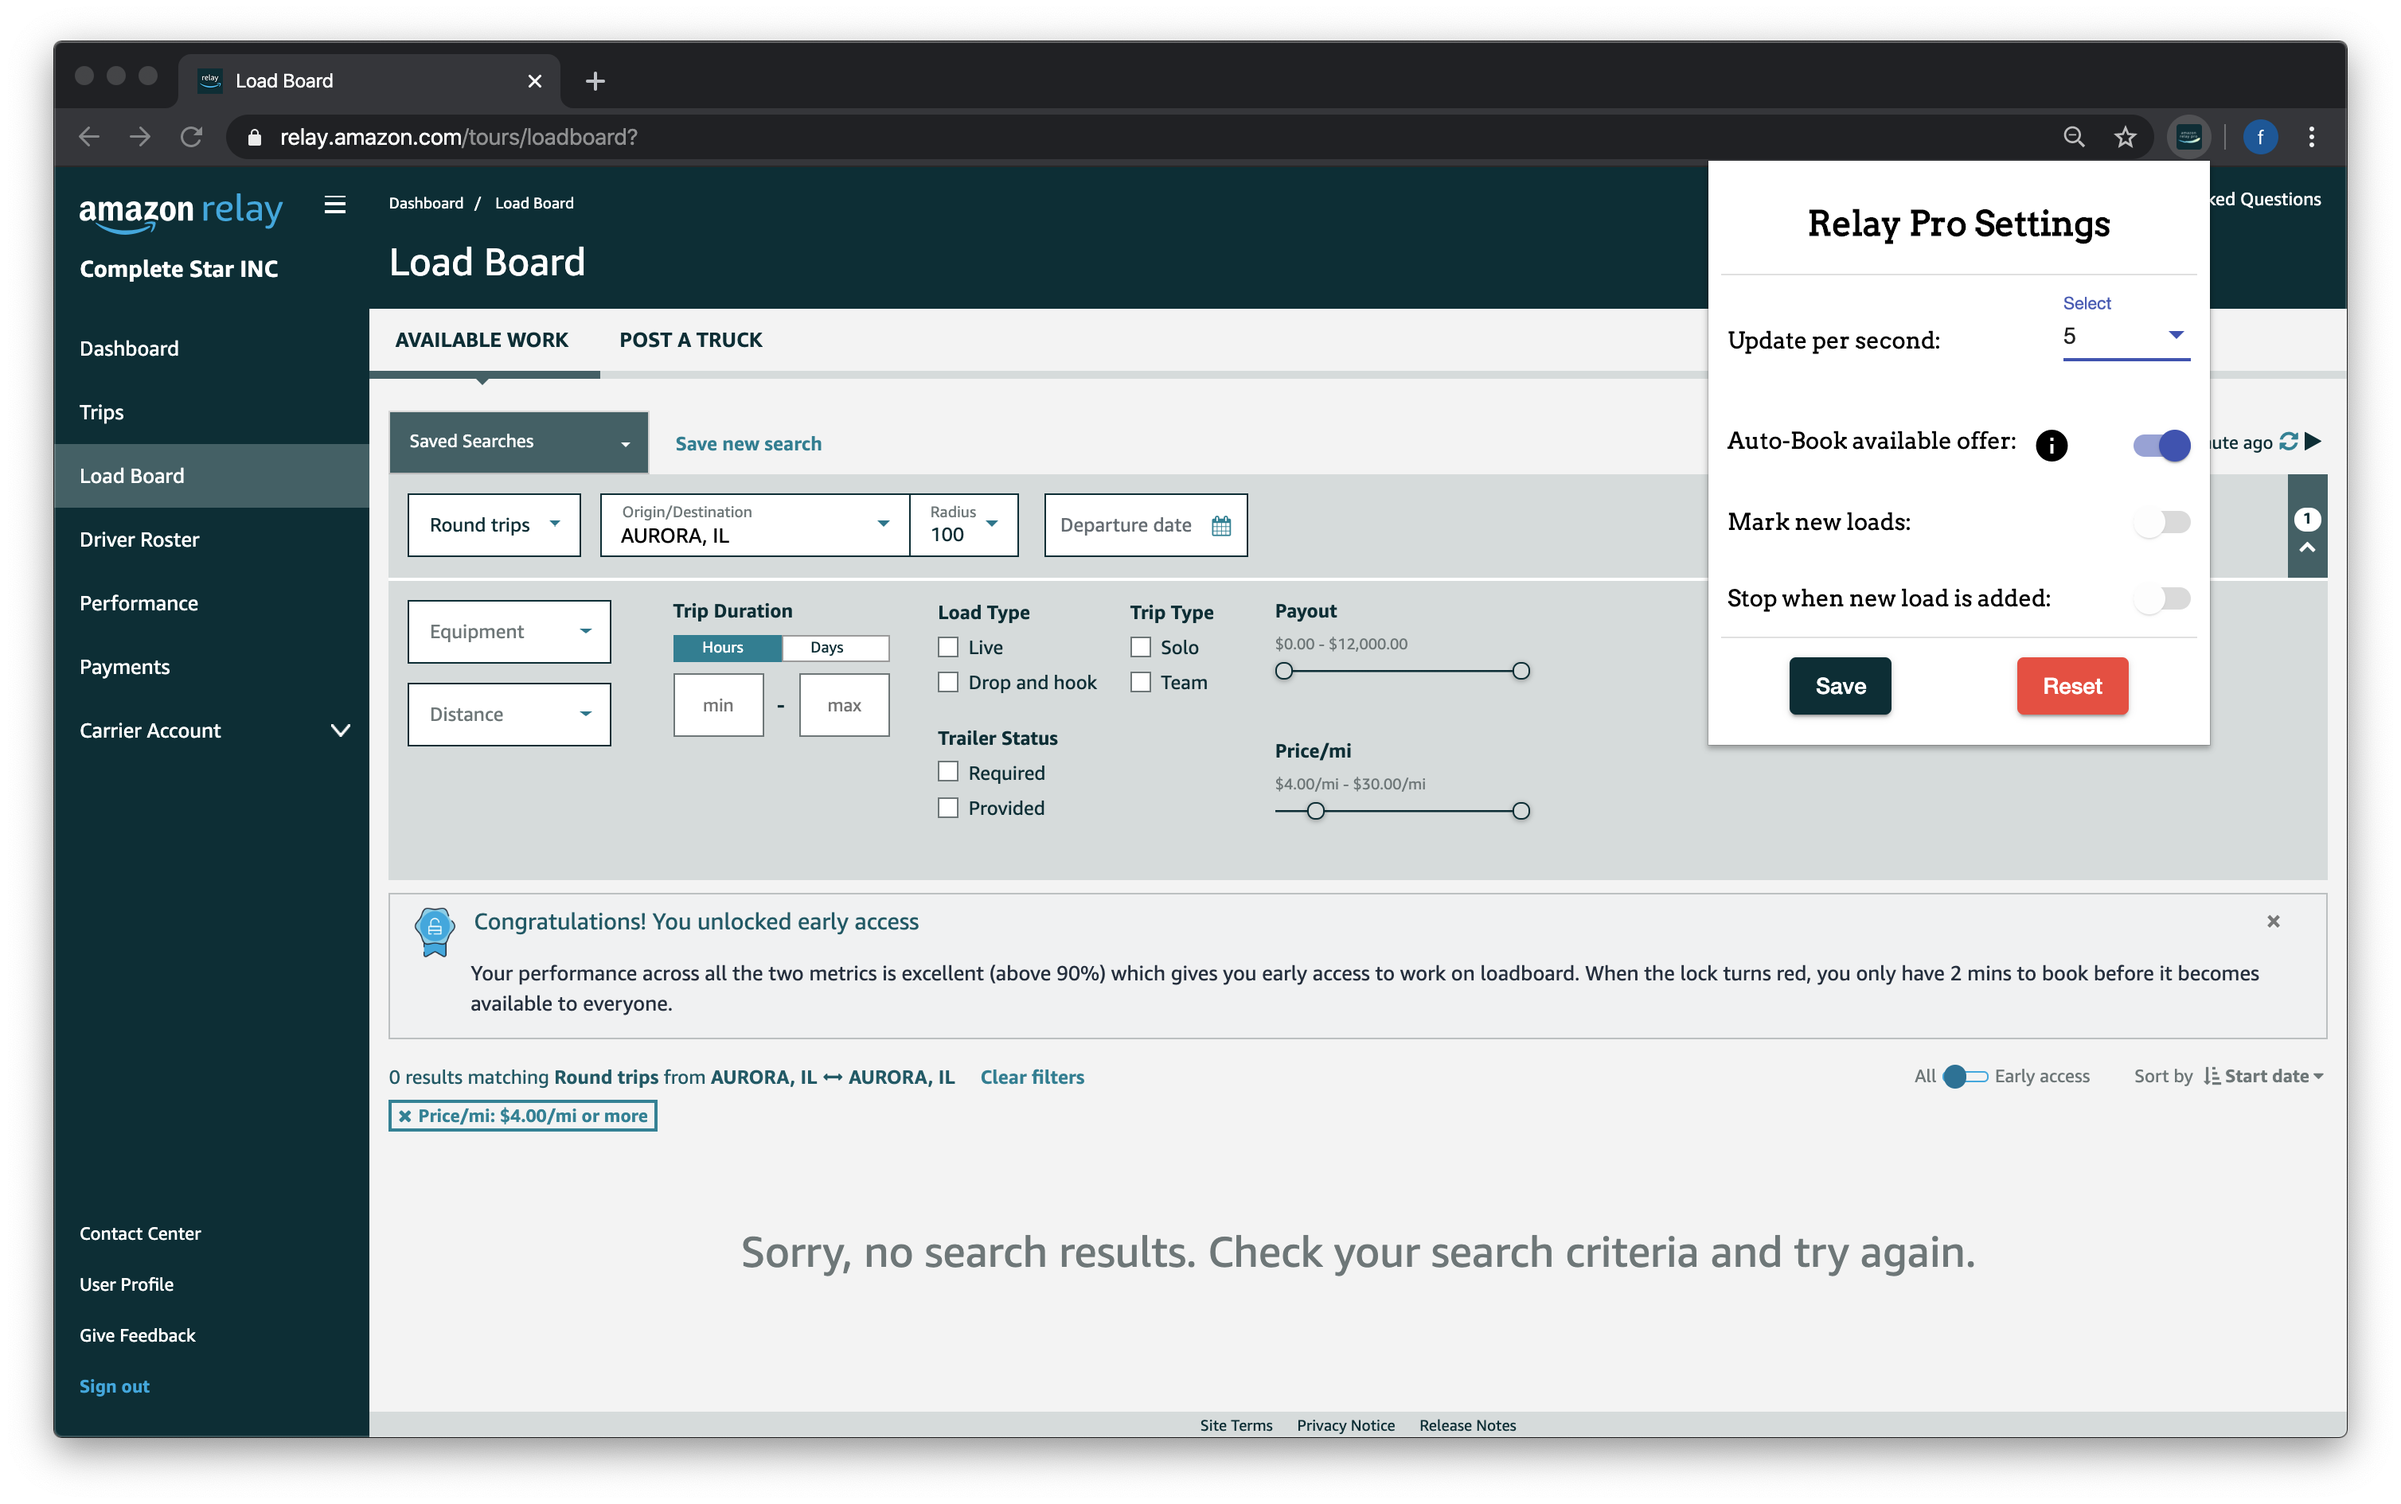
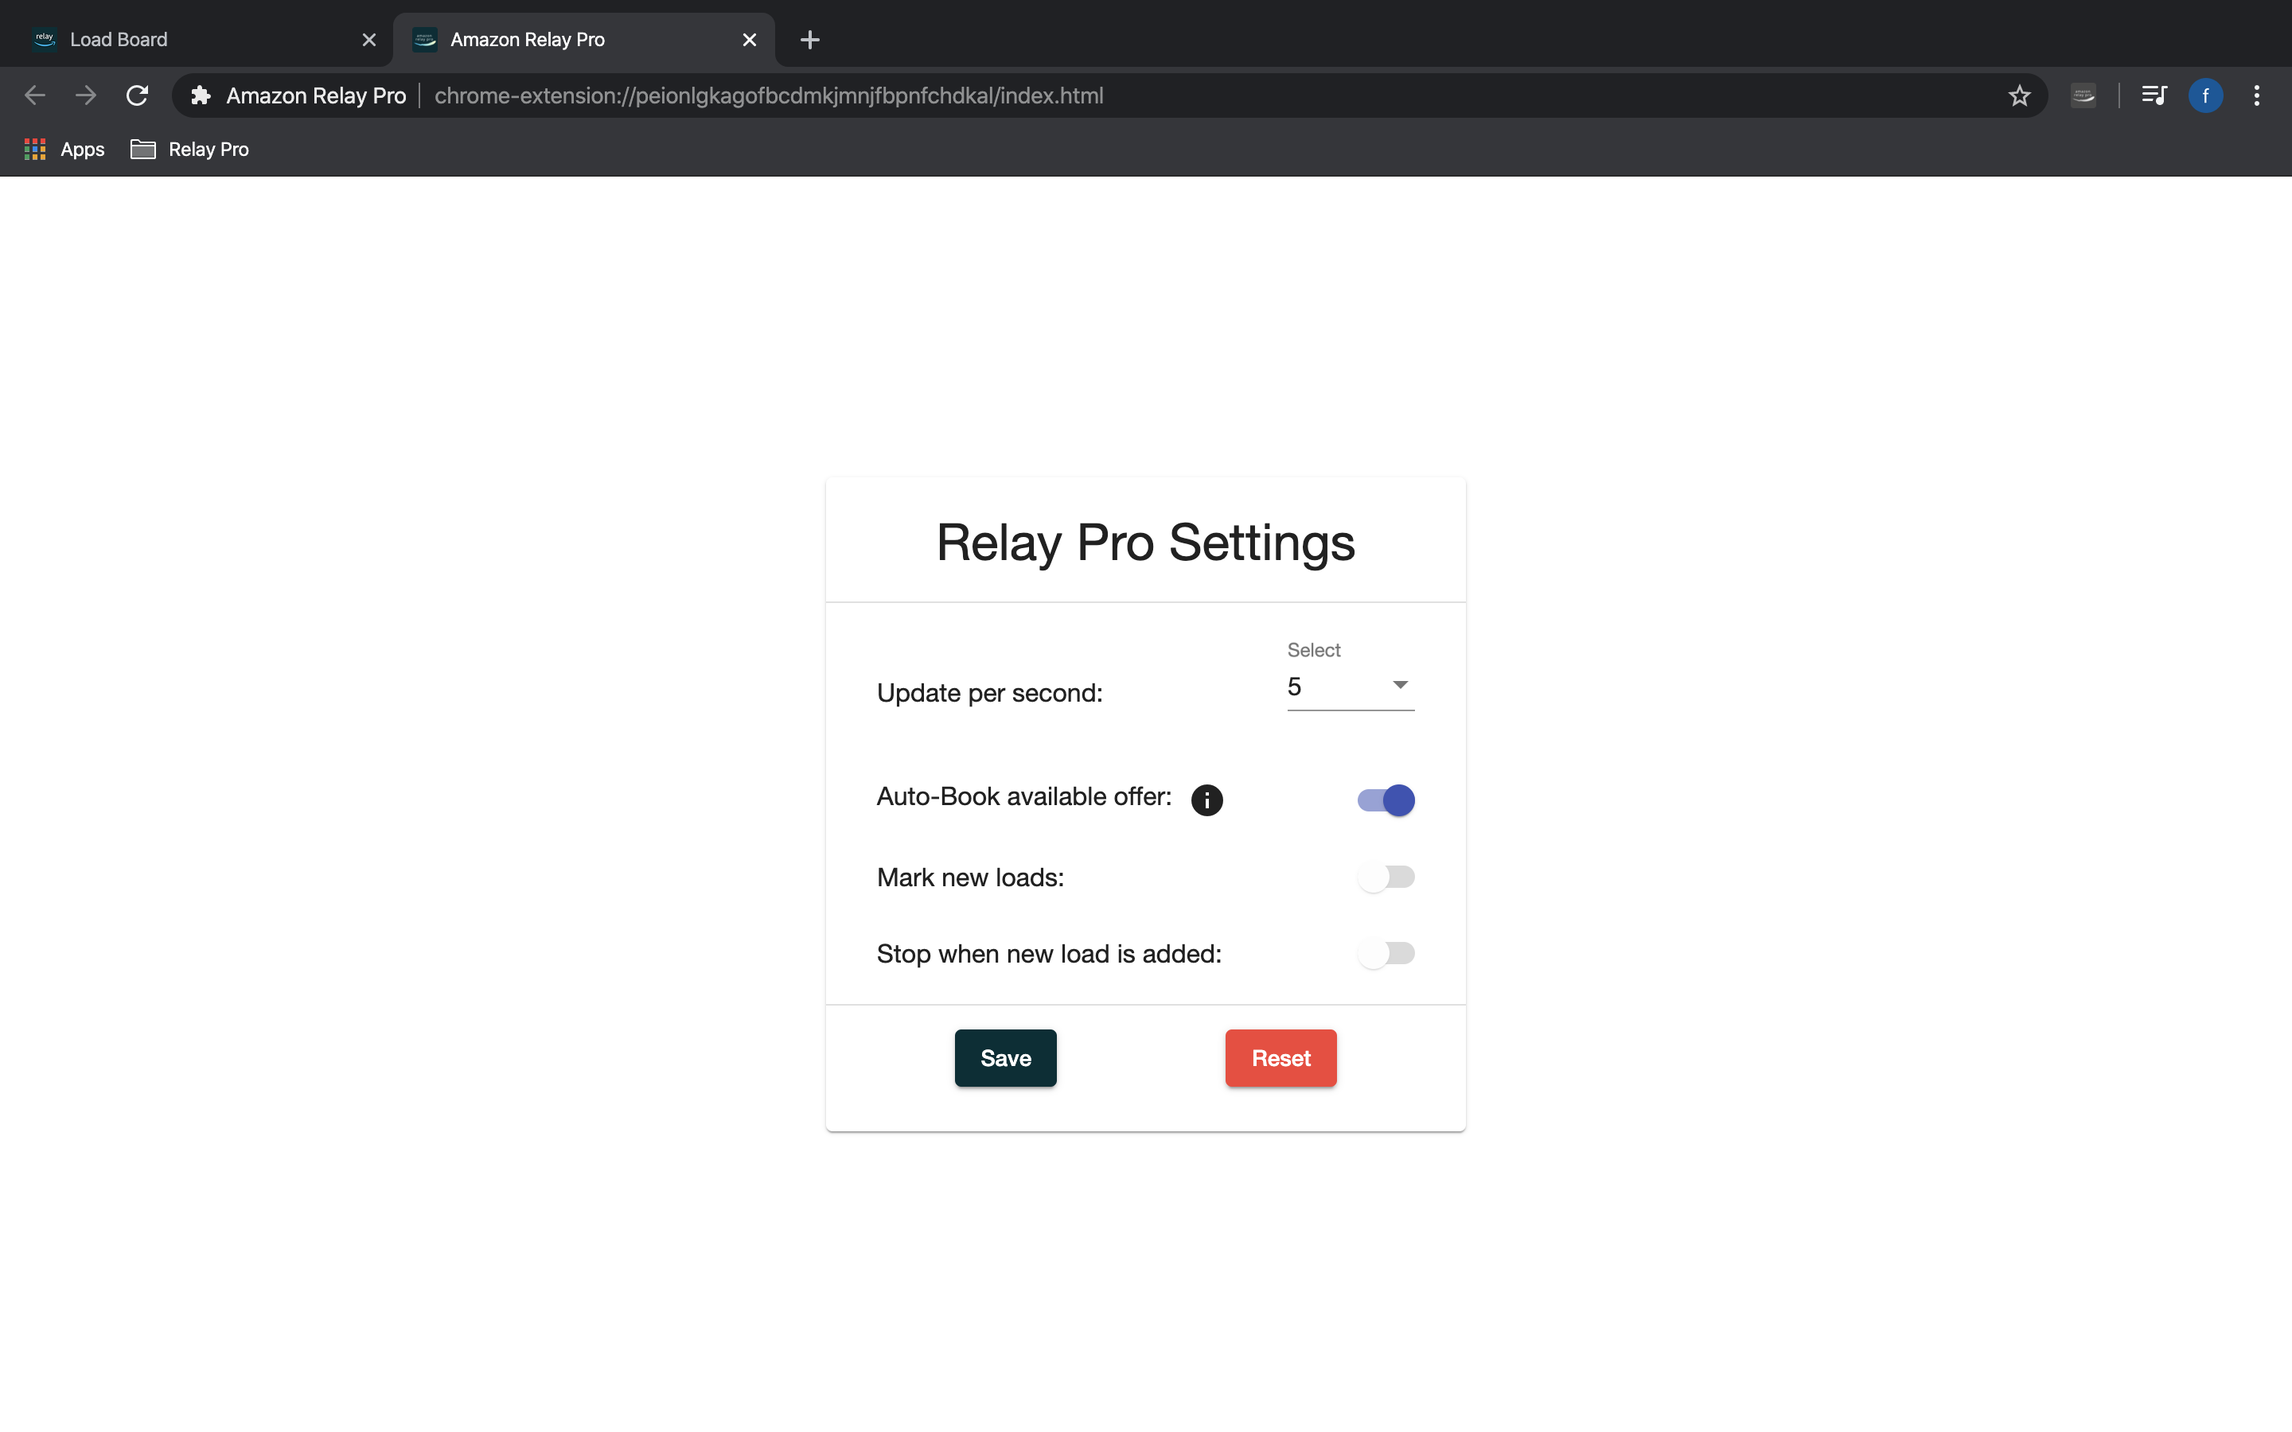
documantation for version two

diff --git a/docs/index.html b/docs/index.html
@@ -11,11 +11,12 @@
   <link rel="stylesheet" href="//unpkg.com/docsify/lib/themes/vue.css">
 </head>
 <body>
-  <div id="app"></div>
+  <div id="app">
+    <!-- <img style="float: left; margin-right: 6px" width="60px" height="60px" src="./img/logo.png"> -->
+  </div>
   <script>
     window.$docsify = {
-      name: '',
-      repo: ''
+      loadNavbar: true
     }
   </script>
   <script src="//unpkg.com/docsify/lib/docsify.min.js"></script>

diff --git a/docs/README.md b/docs/README.md
@@ -1,9 +1,10 @@
-<img style="float: right; margin-right: 6px" width="60px" height="60px" src="./img/logo.png">
+<!-- <img style="float: left; margin-right: 6px" width="60px" height="60px" src="./img/logo.png"> -->
 
 # About the extension
-> Amazon Relay Pro Browser Extension 
+> Amazon Relay Pro 2.0 Browser Extension 
 
-Amazon Relay Pro is productivity hack for people who wants to automate mundane daily tasks of refreshing the browser and waiting for the loads to appear. Using easly configurable features you can tell the extension to do the job for you. Get an edge over the competition and automate your daily work.
+Amazon Relay Pro browser extension is productivity hack for people who wants to automate mundane daily tasks of refreshing the browser and waiting for the loads to appear. Using easily configurable features you can tell the extension to do the job for you. Get an edge over the competition and automate your daily work.
+
 It offers following features:
 
 * **Auto Book loads** 💪 (Game changer)
@@ -11,8 +12,9 @@ It offers following features:
 * Auto Stop when new load appears on the board ⛔
 * Highlight the new load so it can be easily identified 📌
 * Get pleasant sound notifications 🔔
+* User friendly interface 📱
 
-[Get the Extension](https://chrome.google.com/webstore/detail/amazon-relay-pro/peionlgkagofbcdmkjmnjfbpnfchdkal?hl=en&gl=US&authuser=0)
+[Get the Extension from Gumroad](https://gum.co/YzeHNR)
 
 
 # Requirements
@@ -21,75 +23,16 @@ It offers following features:
 1. Works only in Chrome (Firefox is coming soon... 👨💻)
 2. Designed for Amazon Relay 
 3. User should have a Amazon Relay account
-4. User should have a google account
-
-# How to install
-> Instructions on how to install
-
-1. Go to the [Chrome Webstore product page](https://chrome.google.com/webstore/detail/amazon-relay-pro/peionlgkagofbcdmkjmnjfbpnfchdkal?hl=en&gl=US&authuser=0)
-2. Click Buy button 
-3. Complete the payment process ✍🏼
-4. Get the extension installed on your browser
-
-# How to use
-1. Go to the [Amazon Relay Loadboard](https://relay.amazon.com/tours/loadboard?)
-2. Apply desired filters:
-![alt text](./img/filter.png "Filtered Page")
-3. Open configuration pop up by clicking the extension logo:
-![alt text](./img/open-popup.png "Open pop up")
-4. Apply the speed you want to refresh:
-![alt text](./img/open-popup.png "Open pop up")
-5. Toggle the "Auto-Book available offer" option, (Make sure board is clean when this toggle is on) save the configuration and click the play button or press <kbd>Space</kbd> key to start:
-![alt text](./img/auto-book.png "Open pop up")
-6. It will start refreshing and notifies you when it books the load that matches the filter! 🎉 🎉 🎉
-
-> Alternatively, you can configure the settings to stop when new load appears. To do that, repeat the steps 2..4 then
- 
-5. Toggle the "Stop when new load is added" option and possibly toggle "Mark new loads":
-![alt text](./img/stop.png "Open pop up")
-6. Click play button:
-![alt text](./img/play-highlight.png "Open pop up")
-7. It will start refreshing and notify you when new load is added! 🎉 🎉 🎉
-
-9. To stop the refresher, just click the pause button highlighted below. Also, <kbd>Space</kbd> Key can be used to stop the refresher:
-![alt text](./img/pause.png "Open pop up")
-
-# Keyboard shortcuts
-> Key bindings
-
-Use <kbd>Space</kbd> key to start/stop the refresher.
-
-# See it in action
-> See the extension in action
-<iframe width="560" height="400" src="https://www.youtube.com/embed/7GH82wDVe5U" frameborder="0" allow="accelerometer; autoplay; encrypted-media; gyroscope; picture-in-picture" allowfullscreen></iframe>
 
 
 # Reported issues
 > Known bugs
-There are no bugs reported at this moment. Please report possible bugs and feedback to the below contact info. 
 
+There are no bugs reported at this moment. Please report possible bugs and improvements to the below contact info.
 
-# Privacy Policy
-> Privacy Policy: 2/27/2020
+# Users of Amazon Relay Pro v 1.0
 
-This policy lists the types of information that we get from our users and shows what exactly we use that information for. We want to make sure you are aware of it so that you always see the whole picture of your interaction with us. If you have any questions about this Privacy Policy, don’t hesitate to contact.
-
-> What type of information does Amazon Relay Pro Extension collect?
-
-Amazon Relay Pro doesn't store any user data or information on its own servers. We utilize the industry standard license verification process provided by Google to verify and make sure user has a valid license for our product. We don't collect or store any device identifier or personal information of a user.
-
-> Permissions
-
-Amazon Relay Pro requires a certain amount of permissions so you can enjoy its full potential. For security reasons we use the narrowest permissions available to still provide you the full functionality. These permissions are:
- * activeTab - to get access to the active tab
- * declarativeContent - to make sure extension only works in a designed website
- * identity - to verify users license
- * storage - to store data such as settings in users browser
- * "www.googleapis.com/" - to get access to the google API's
-
-> Complaints
-
-If you have any complaints about our use of your personal data please contact us as set out at the end of this Privacy Policy.
+Please reach out to us to get the new version of the extension.
 
 # Contact
 > Contact information:

diff --git a/docs/using.md b/docs/using.md
@@ -1,0 +1,41 @@
+# How to use
+1. Go to the [Amazon Relay Loadboard](https://relay.amazon.com/tours/loadboard?)
+2. You will see warning for license activation.
+
+![alt text](../img/activate-warning.png "Load board")
+3. Click OPTIONS link right next to warning, it will open new tab with license activation form.
+
+![alt text](../img/form.png "Form")
+4. Enter your gumroad 'email' and 'license key' and click activate.
+
+![alt text](../img/filled-info.png "Form filled")
+5. You should see settings page show up, where you can configure.
+
+![alt text](../img/settings-filled.png "Settings filled")
+6. After filling out desired settings, click save and settings will be saved. You should see play button in the Dashboard page tab. You may repeat that time by time to make sure license is up to date.
+
+![alt text](../img/play.png "Play button")
+7. Set desired filters and click Play.
+
+![alt text](../img/playing.png "Play button")
+8. Once it finds match for your filter, refresher will stop and notifies by sound notification.
+
+![alt text](../img/marked.png "Marked row")
+
+9. Alternatively, you can configure it to use auto book as a setting by toggling "Auto-Book available offer" toggle (Make sure board is clean when this toggle is on) in settings page then click save. Repeat the process.
+
+![alt text](../img/auto-book.png "Auto book")
+
+10. It will notify you when load is booked! 🎉 🎉 🎉
+
+
+# Keyboard shortcuts
+> Key bindings
+
+Use <kbd>`</kbd> key to start/stop the refresher.
+
+# See it in action
+> See the extension in action
+
+<iframe width="560" height="400" src="https://www.youtube.com/watch?v=eMPJMrxfbZE" frameborder="0" allow="accelerometer; autoplay; encrypted-media; gyroscope; picture-in-picture" allowfullscreen></iframe>
+

diff --git a/docs/inst-mac.md b/docs/inst-mac.md
@@ -1,0 +1,30 @@
+# Instructions on MAC OS
+
+1. Complete the purchase in Gumroad, then you should see the following winow:
+
+![alt text](../img/installation/license-key.png "Purchase page")
+ 
+Download the zip file to your desktop. Also, copy your license key to easly accessible place. You will need it to activate the extension. You can also get the license key from your email from Gumroad.
+
+2. Unzip the file by double clicking on zip file. 
+
+![alt text](../img/installation/unzip-pic.png "Zipped extension")  
+
+3. Once you have unzipped the extension folder, open your browser's extensions by clicking on control button on upper right side of the browser.
+
+![alt text](../img/installation/open-extensions.png "Open extension page")
+
+3. After opening the extension tab, toggle developer mode on. This will allow you to install extension from source file.
+
+![alt text](../img/installation/toggle-on.png "Open extension page")
+
+4. Then, click on 'Load Unpacked' button and select the folder we extracted from the zip file.
+
+![alt text](../img/installation/select-file.png "Load the extension")
+
+5. Finally, you should see the extension installed on your browser. 
+
+![alt text](../img/installation/loaded.png "Load the extension")
+
+6. Hooray! Now you can use the extension as described in [How to use](https://gum.co/YzeHNR) page.
+

diff --git a/docs/inst-windows.md b/docs/inst-windows.md
@@ -1,0 +1,29 @@
+# Instructions on Windows OS
+
+1. Complete the purchase in Gumroad, then you should see the following winow:
+
+![alt text](../img/installation/license-key.png "Purchase page")
+ 
+Download the zip file to your desktop. Also, copy your license key to easly accessible place. You will need it to activate the extension. You can also get the license key from your email from Gumroad.
+
+2. Unzip the file by extracting it. 
+
+![alt text](../img/installation/unzip-pic.png "Zipped extension")
+
+3. Once you have unzipped the extension folder, open your browser's extensions by clicking on control button on upper right side of the browser.
+
+![alt text](../img/installation/w-open-extension.png "Open extension page")
+
+3. After opening the extension tab, toggle developer mode on. This will allow you to install extension from source file.
+
+![alt text](../img/installation/toggle-on.png "Open extension page")
+
+4. Then, click on 'Load Unpacked' button and select the folder we extracted from the zip file.
+
+![alt text](../img/installation/select-file.png "Load the extension")
+
+5. Finally, you should see the extension installed on your browser. 
+
+![alt text](../img/installation/loaded.png "Load the extension")
+
+6. Hooray! Now you can use the extension as described in [How to use](https://gum.co/YzeHNR) page.

diff --git a/docs/installing.md b/docs/installing.md
@@ -1,0 +1,7 @@
+# How to install
+> Instructions on how to install
+
+1. Go to the [Chrome Webstore product page](https://chrome.google.com/webstore/detail/amazon-relay-pro/peionlgkagofbcdmkjmnjfbpnfchdkal?hl=en&gl=US&authuser=0)
+2. Click Buy button 
+3. Complete the payment process ✍🏼
+4. Get the extension installed on your browser

diff --git a/docs/_navbar.md b/docs/_navbar.md
@@ -1,0 +1,7 @@
+* [Home](/)
+
+* How to install
+  * [Windows OS](/inst-windows)
+  * [Mac OS](/inst-mac)
+
+* [How to Use](/using)
